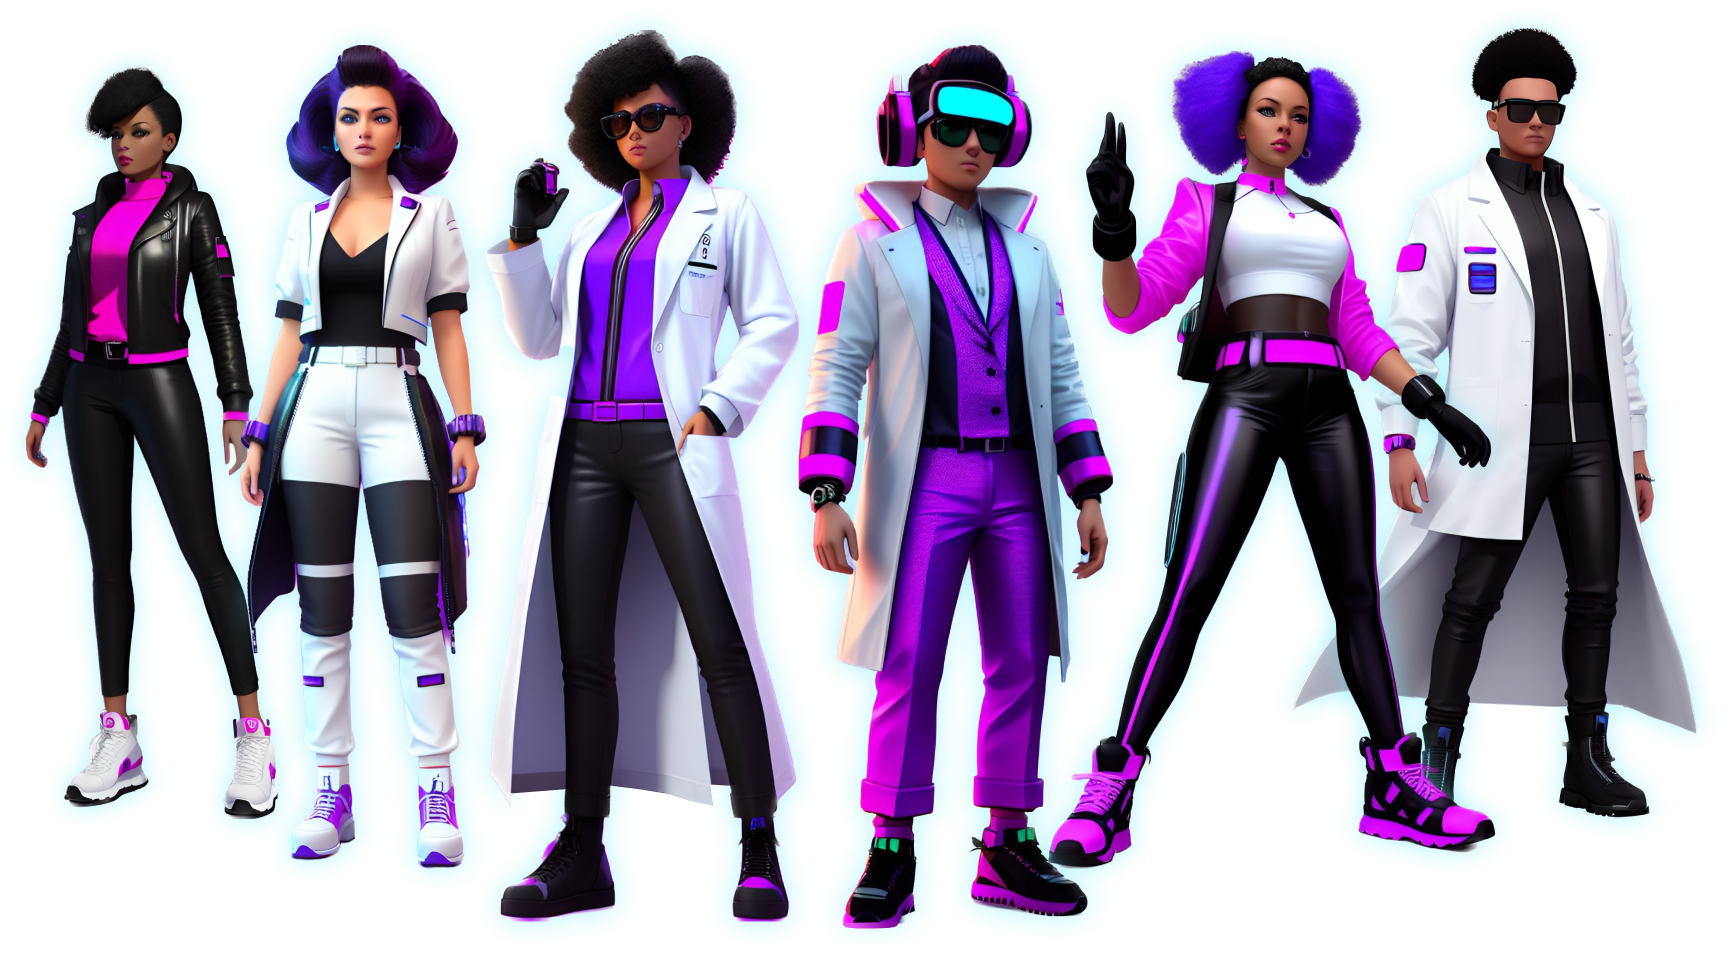
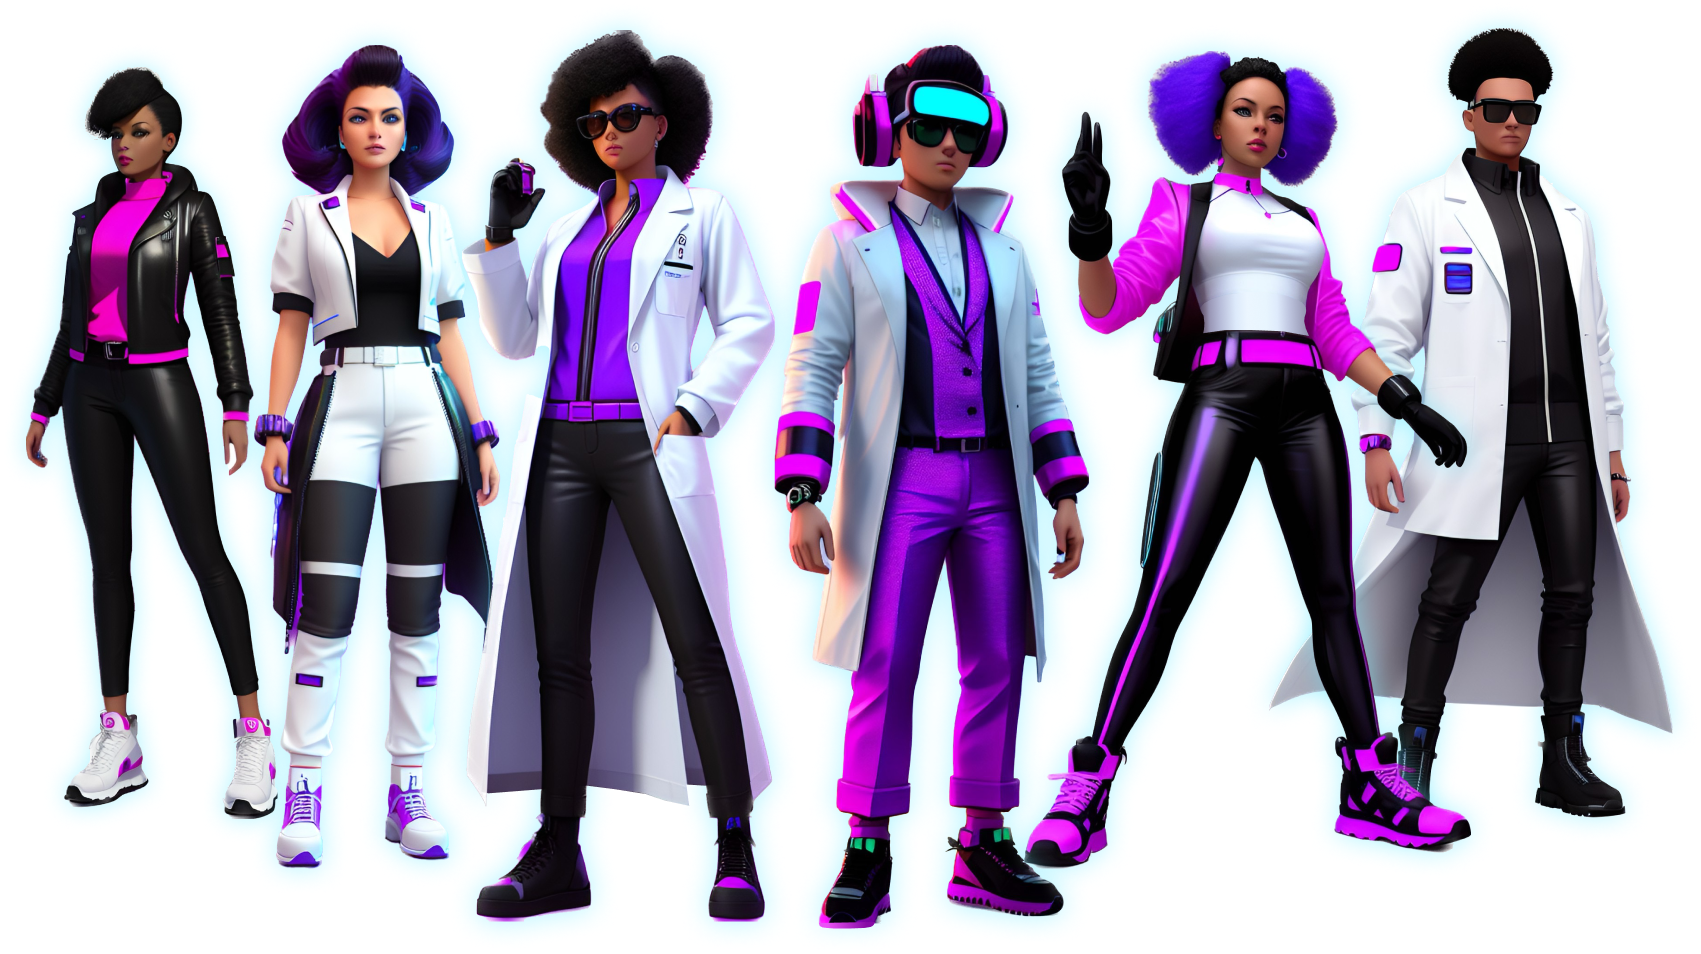
added soundwave

diff --git a/components/layout/Navbar/Navbar.tsx b/components/layout/Navbar/Navbar.tsx
@@ -21,11 +21,6 @@ const Navbar = () => {
   const [displayMobileMenu, setDisplayMobileMenu] = useState(false);
   const [scrollPosition, setScrollPosition] = useState(0);
 
-  const handleScroll = () => {
-    const position = scrollY;
-    setScrollPosition(position);
-  };
-
   useEffect(() => {
     switch (pathname) {
       case '/':
@@ -39,12 +34,16 @@ const Navbar = () => {
         break;
     }
 
+    const handleScroll = () => {
+      const position = scrollY;
+      setScrollPosition(position);
+    };
+
     window.addEventListener('scroll', handleScroll, { passive: true });
-    handleScroll();
     return () => {
       window.removeEventListener('scroll', handleScroll);
     };
-  }, [pathname]);
+  }, [pathname, width]);
 
   return (
     <>

diff --git a/components/home/AvatarModel/AvatarModel.tsx b/components/home/AvatarModel/AvatarModel.tsx
@@ -3,6 +3,7 @@
 import Image from 'next/image';
 import { motion } from 'framer-motion';
 
+import soundWave from '@/public/sound-wave.svg';
 import character from '@/public/character-6.webp';
 import createAnimation from '@/helpers/createAnimation';
 import styles from './AvatarModel.module.scss';
@@ -64,6 +65,13 @@ const AvatarModel = () => {
         width={400}
         height={600}
         className={styles.avatar}
+      />
+      <Image
+        src={soundWave}
+        alt="A large representation of a Counterparts avatar"
+        fill
+        sizes="100vw"
+        className={styles.soundwave}
       />
       {callOuts.map((callOut, i) => (
         <motion.p

diff --git a/components/home/AvatarModel/AvatarModel.module.scss b/components/home/AvatarModel/AvatarModel.module.scss
@@ -1,4 +1,5 @@
 @import '/styles/sass/mixins';
+@import '/styles/sass/animations';
 
 .modelSection {
   margin-top: 5rem;
@@ -77,6 +78,16 @@
     transform: translate(-50%, -50%);
     height: calc(var(--height) - 7%);
     z-index: -1;
+  }
+  .soundwave {
+    object-fit: contain;
+    object-position: center;
+    z-index: -10;
+    filter: opacity(0.25);
+    transform: scale(1.3, 1.5);
+    @include screen-tablet-lg {
+      transform: scale(1.1, 1);
+    }
   }
   .callOut {
     text-align: center;

diff --git a/components/home/CallToAction/CallToAction.tsx b/components/home/CallToAction/CallToAction.tsx
@@ -26,7 +26,7 @@ const CallToAction = () => {
         variants={createAnimation('staggerContainer')}
         initial="hidden"
         whileInView="show"
-        viewport={{ once: true, amount: 0.75 }}
+        viewport={{ once: true, amount: 0.65 }}
         className={styles.motionWrapper}>
         <motion.h3
           variants={createAnimation('fadeInDown')}

diff --git a/components/home/CallToAction/CallToAction.module.scss b/components/home/CallToAction/CallToAction.module.scss
@@ -26,7 +26,7 @@
         font-size: 13vw;
       }
       @include screen-tablet-lg {
-        font-size: 8rem;
+        font-size: 7rem;
       }
     }
     .portalBox {
@@ -44,7 +44,7 @@
     .characterGroup {
       width: 100vw;
       height: auto;
-      max-width: 1100px;
+      max-width: 950px;
     }
     .formContainer {
       position: absolute;
